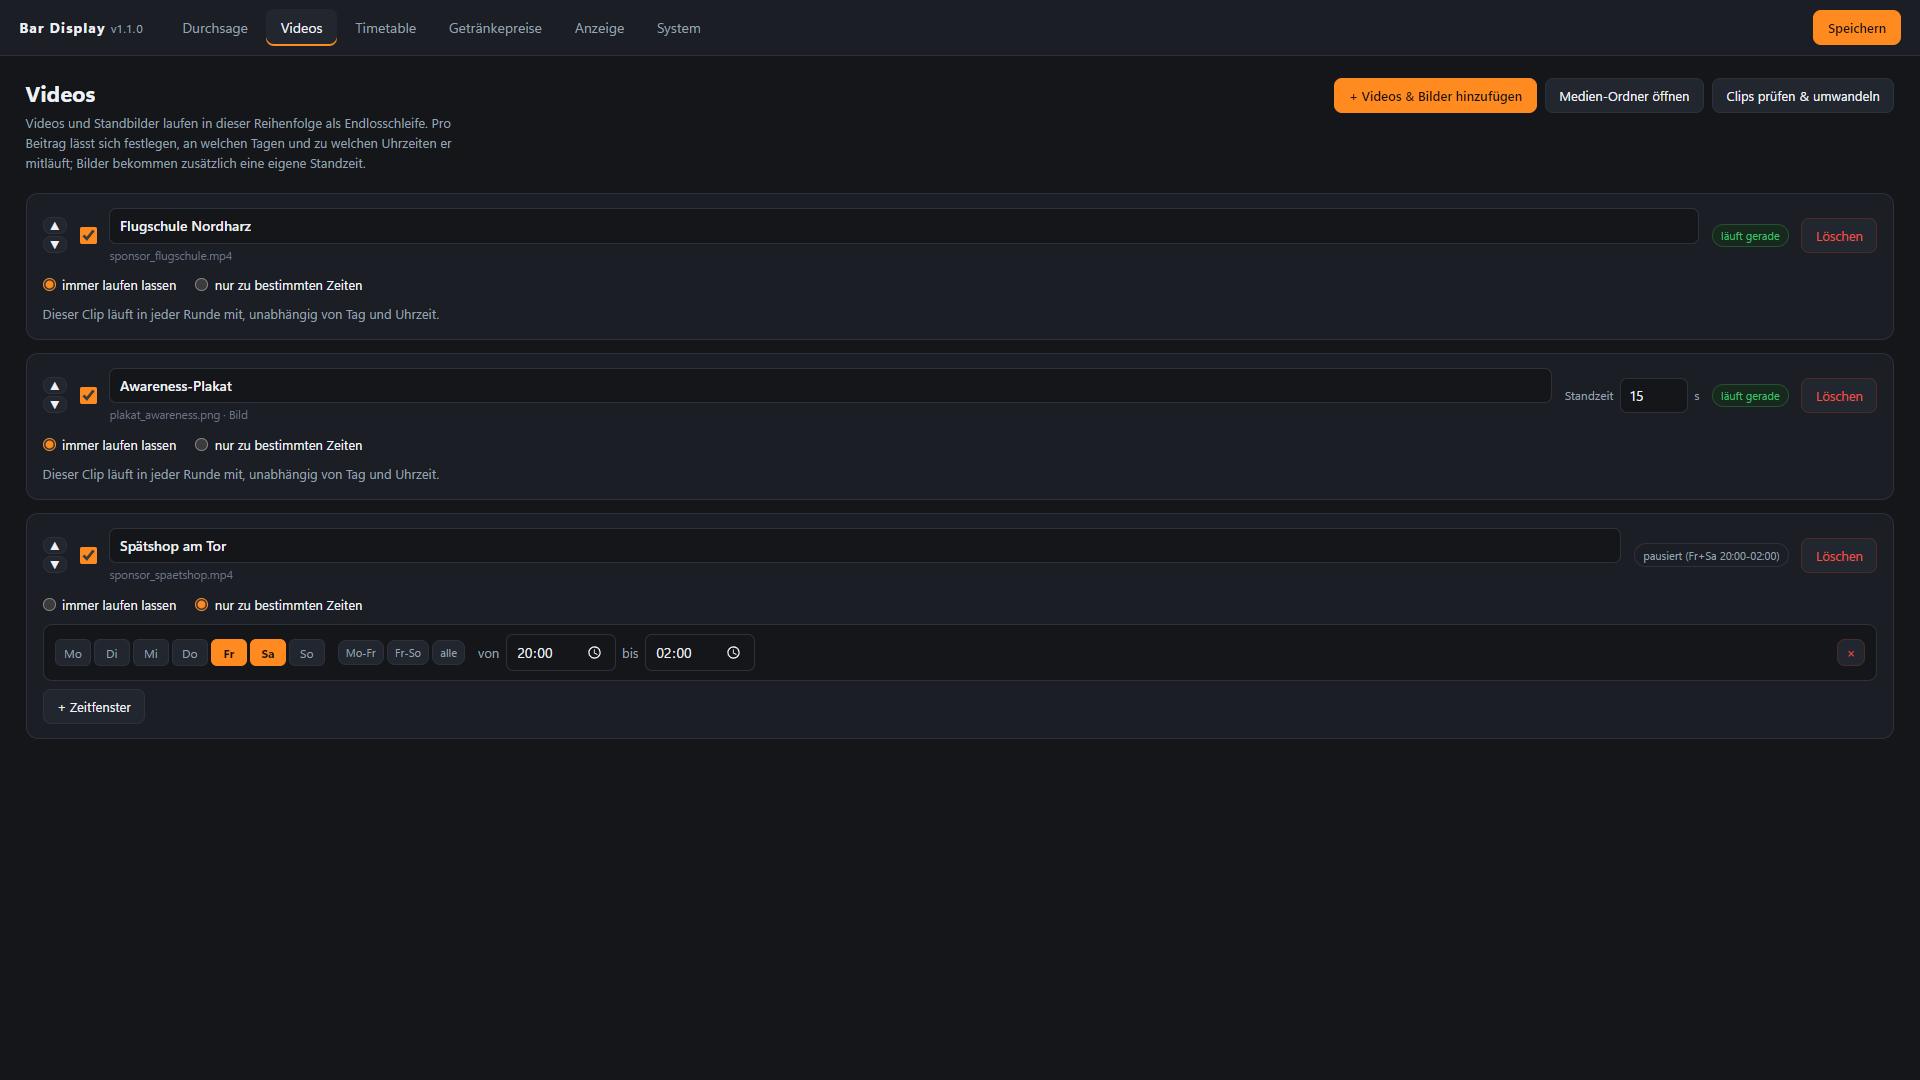
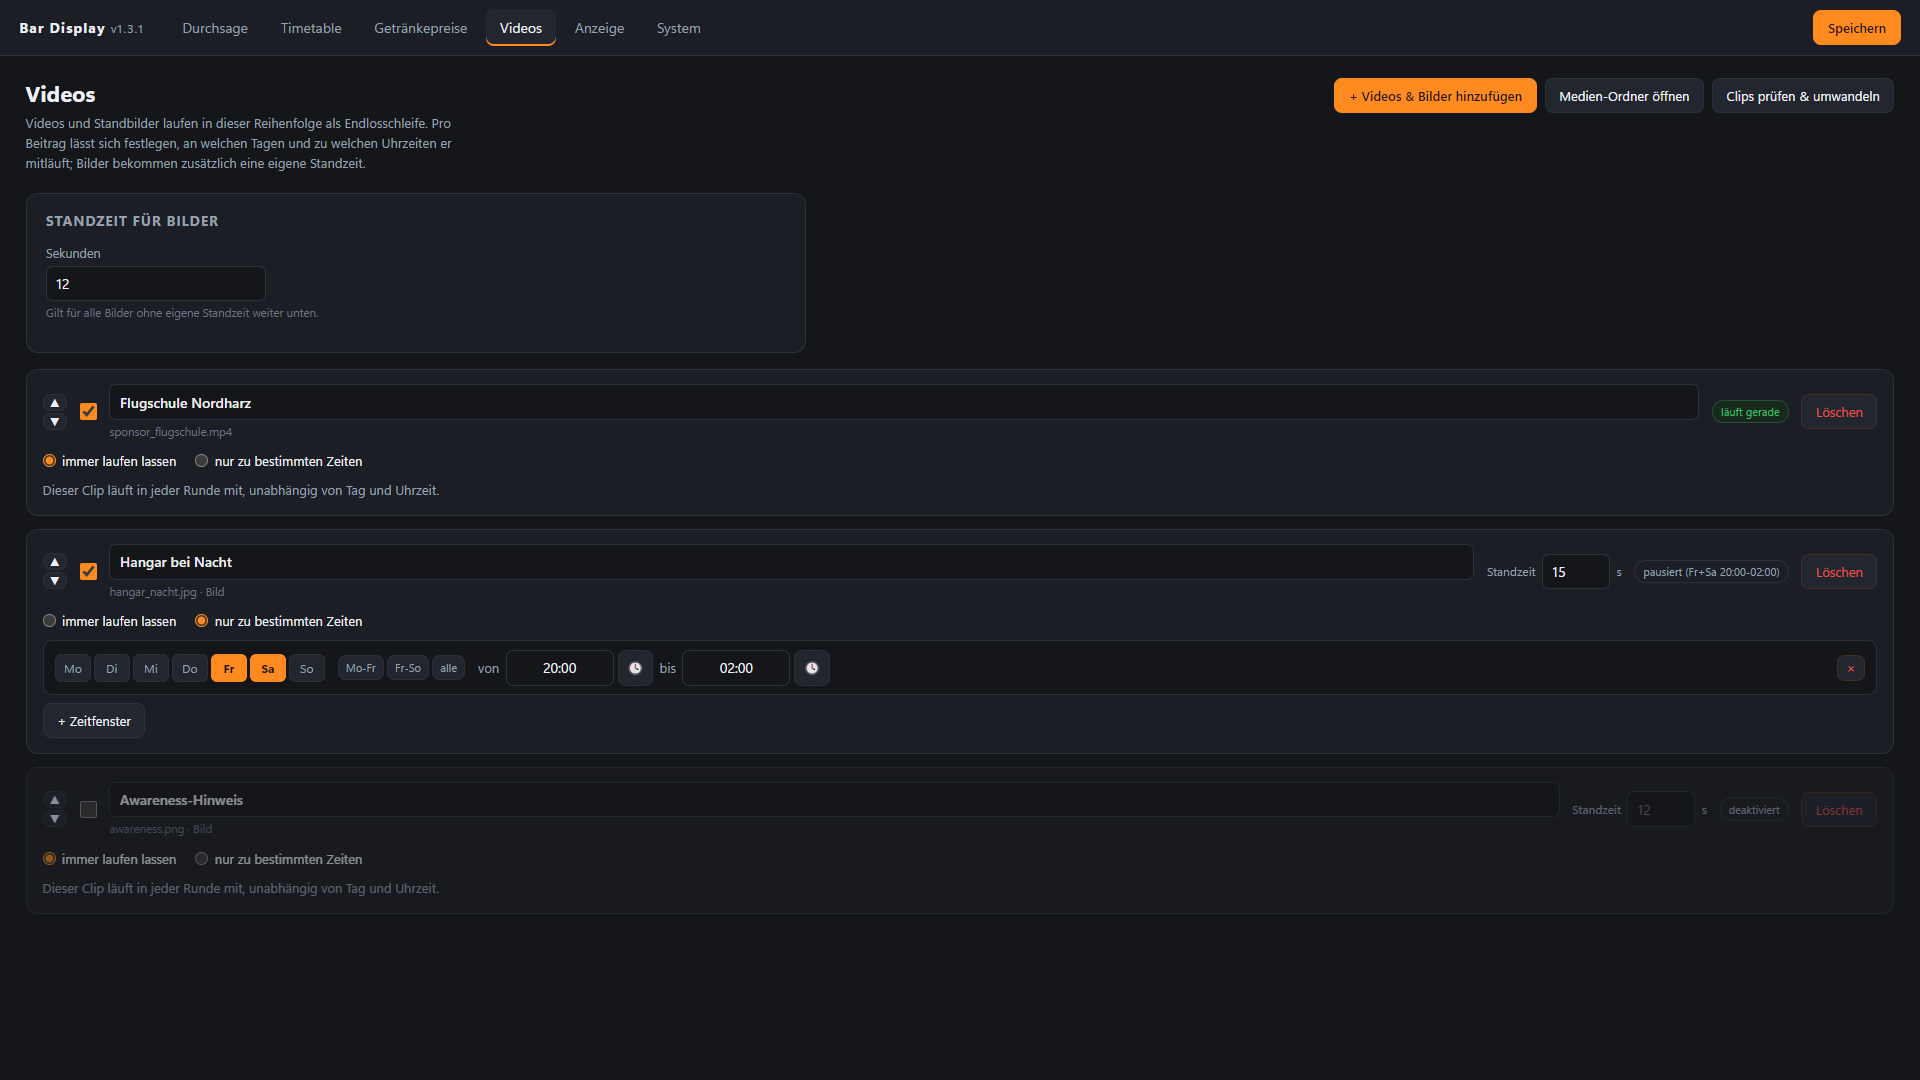
Dokubilder neu aufgenommen
Sechs Bilder zeigten noch den alten Stand: die doppelte Laufschrift, die
Haeufigkeiten unter "Anzeige" und die VPN-Adresse an erster Stelle.

Nebenbei zwei Kleinigkeiten, die beim Ansehen der neuen Bilder auffielen:
- Der Untertitel im Reiter "Anzeige" sprach weiter von Haeufigkeit und
  Standzeit der Info-Slides. Die stehen dort nicht mehr
- Ein Zahlenfeld in den neuen Karten lief ueber die halbe Kartenbreite. Fuer
  eine zweistellige Zahl reichen 220 px

diff --git a/src/settings.html b/src/settings.html
@@ -253,7 +253,7 @@
     <!-- ------------------------------------------------------------- -->
     <section id="panel-display" class="panel">
       <div class="panelHead"><div><h1>Anzeige</h1>
-        <p class="hint">H&auml;ufigkeit und Standzeit der Info-Slides sowie das Erscheinungsbild.</p></div></div>
+        <p class="hint">Erscheinungsbild der Anzeige: Logo, Beschriftung, Farben und &Uuml;berg&auml;nge. Wie oft Timetable und Preise erscheinen, steht im jeweiligen Reiter.</p></div></div>
 
       <div class="cards">
         <div class="card">

diff --git a/src/settings.css b/src/settings.css
@@ -274,6 +274,8 @@ input[type=color] { padding: 2px; height: 34px; width: 70px; background: var(--b
    ganze Breite fuellen wie die Listen darunter. */
 .card.schmal { max-width: 780px; margin-bottom: 1rem; }
 .dreiCol { display: grid; grid-template-columns: repeat(auto-fit, minmax(190px, 1fr)); gap: 0 1rem; }
+/* Eine Zahl braucht kein Feld ueber die halbe Seite. */
+.card.schmal .field input[type=number] { max-width: 220px; }
 
 .planListe { display: flex; flex-direction: column; gap: 0.7rem; margin-bottom: 0.8rem; }
 .planRow {
